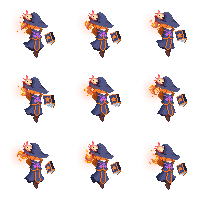
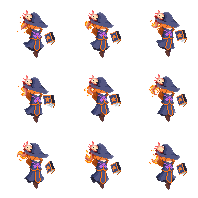
attack fixed

diff --git a/src/objetos/witchAttack.js b/src/objetos/witchAttack.js
@@ -6,10 +6,10 @@ export default class WitchAttack extends Phaser.GameObjects.Sprite {
 	 */
 	constructor(scene, x, y, objetive, damage) {
 		super(scene, x, y, 'witchAttack');
-		this.speed = 70; // Nuestra velocidad de movimiento sera 140
+		this.speed = 170; // Nuestra velocidad de movimiento sera 140
 		
 		this.witch = this.scene.witch; //Guardamos referencia a la bruja
-		this.setScale(0.25);
+		this.setScale(1);
 		this.objetive = objetive;
 		this.radianAngle = Phaser.Math.Angle.Between(x, y, objetive.x, objetive.y);
 		this.setRotation(this.radianAngle);
@@ -18,8 +18,8 @@ export default class WitchAttack extends Phaser.GameObjects.Sprite {
         
 		this.scene.anims.create({
 			key: 'idleAttack',
-			frames: scene.anims.generateFrameNumbers('witchAttack', {start:0, end:8}),
-			frameRate: 15,
+			frames: scene.anims.generateFrameNumbers('witchAttack', {start:0, end:44}),
+			frameRate: 50,
 			repeat: -1
 		});
 		
@@ -34,9 +34,9 @@ export default class WitchAttack extends Phaser.GameObjects.Sprite {
 
 		// Ajustamos el "collider" de nuestro ataque
 		this.bodyOffsetWidth = this.body.width/4;
-		this.bodyOffsetHeight = this.body.height/6+20;
-		this.bodyWidth = this.body.width/1.7;
-		this.bodyHeight = this.body.height/2;
+		this.bodyOffsetHeight = this.body.height/4;
+		this.bodyWidth = this.body.width/3;
+		this.bodyHeight = this.body.height/3;
 		
 		this.body.setOffset(this.bodyOffsetWidth, this.bodyOffsetHeight);
 		this.body.width = this.bodyWidth;
@@ -54,8 +54,12 @@ export default class WitchAttack extends Phaser.GameObjects.Sprite {
 		this.radianAngle = Phaser.Math.Angle.Between(this.x, this.y, this.objetive.x, this.objetive.y);
 		this.setRotation(this.radianAngle);
 		
-		this.scene.physics.moveToObject(this,this.objetive, 170);            
-		if (!this.objetive.isAlive) this.destroy()
+		this.scene.physics.moveToObject(this,this.objetive, this.speed);
+		if (this.scene.physics.overlap(this,this.objetive)){
+			this.objetive.receiveDamage(this.damage);
+			this.destroy();
+		}
+		else if (!this.objetive.isAlive) this.destroy()          
 	}
     
 	resetCollider(){

diff --git a/src/escenas/pause.js b/src/escenas/pause.js
@@ -13,7 +13,7 @@ export default class Title extends Phaser.Scene {
         this.load.image('continue', 'assets/GUI/resetButton1.png');
 		this.load.image('continue2', 'assets/GUI/resetButton2.png');
         this.load.image('pause_background', 'assets/GUI/pause_background.jpg')
-        this.load.image('witchPause', 'assets/Bruja/image.png')
+        this.load.image('witchPause', 'assets/Bruja/bruja_pause.png')
         this.load.image('speed', 'assets/GUI/speed.png')
 		this.load.image('witchBg', 'assets/GUI/woodPannel.png');
 
@@ -49,8 +49,8 @@ export default class Title extends Phaser.Scene {
             this.optionsButton = this.add.image(this.windowW/r, this.windowH/2, 'options').setInteractive();
             this.fullscreenButton = this.add.image(this.windowW/1.45, this.windowH/1.2, 'fullscreen').setInteractive();
             this.soundButton = this.add.image(this.windowW/1.18, this.windowH/1.2, 'sound').setInteractive();
-            this.witch = this.add.image(this.windowW/7, this.windowH/2, 'witchPause').setDepth(2);
-            this.witch.setScale(0.4)
+            this.witch = this.add.image(this.windowW/8, this.windowH/2, 'witchPause').setDepth(2);
+            this.witch.setScale(4)
 
             this.add.image(10,56,'witchBg').setOrigin(0,0)
 

diff --git a/src/escenas/animation.js b/src/escenas/animation.js
@@ -13,7 +13,7 @@ export default class Animation extends Phaser.Scene {
 
 	preload() {
 		this.load.spritesheet('witch', 'assets/Bruja/bruja.png', { frameWidth: 66, frameHeight: 66 })
-		this.load.spritesheet('witchAttack', 'assets/Bruja/witchAttack.png', { frameWidth: 128, frameHeight: 128 })
+		this.load.spritesheet('witchAttack', 'assets/Bruja/FireBall.png', { frameWidth: 64, frameHeight: 64 })
 		this.load.spritesheet('expBall', 'assets/Bruja/expBall.png', { frameWidth: 19, frameHeight: 18 })
 		this.load.spritesheet('wolf', 'assets/enemies/wolfWalk.png', { frameWidth: 64.8, frameHeight: 33 })
 		this.load.spritesheet('fireFlower', 'assets/GUI/fireFlower.png', { frameWidth: 479, frameHeight: 576 })
